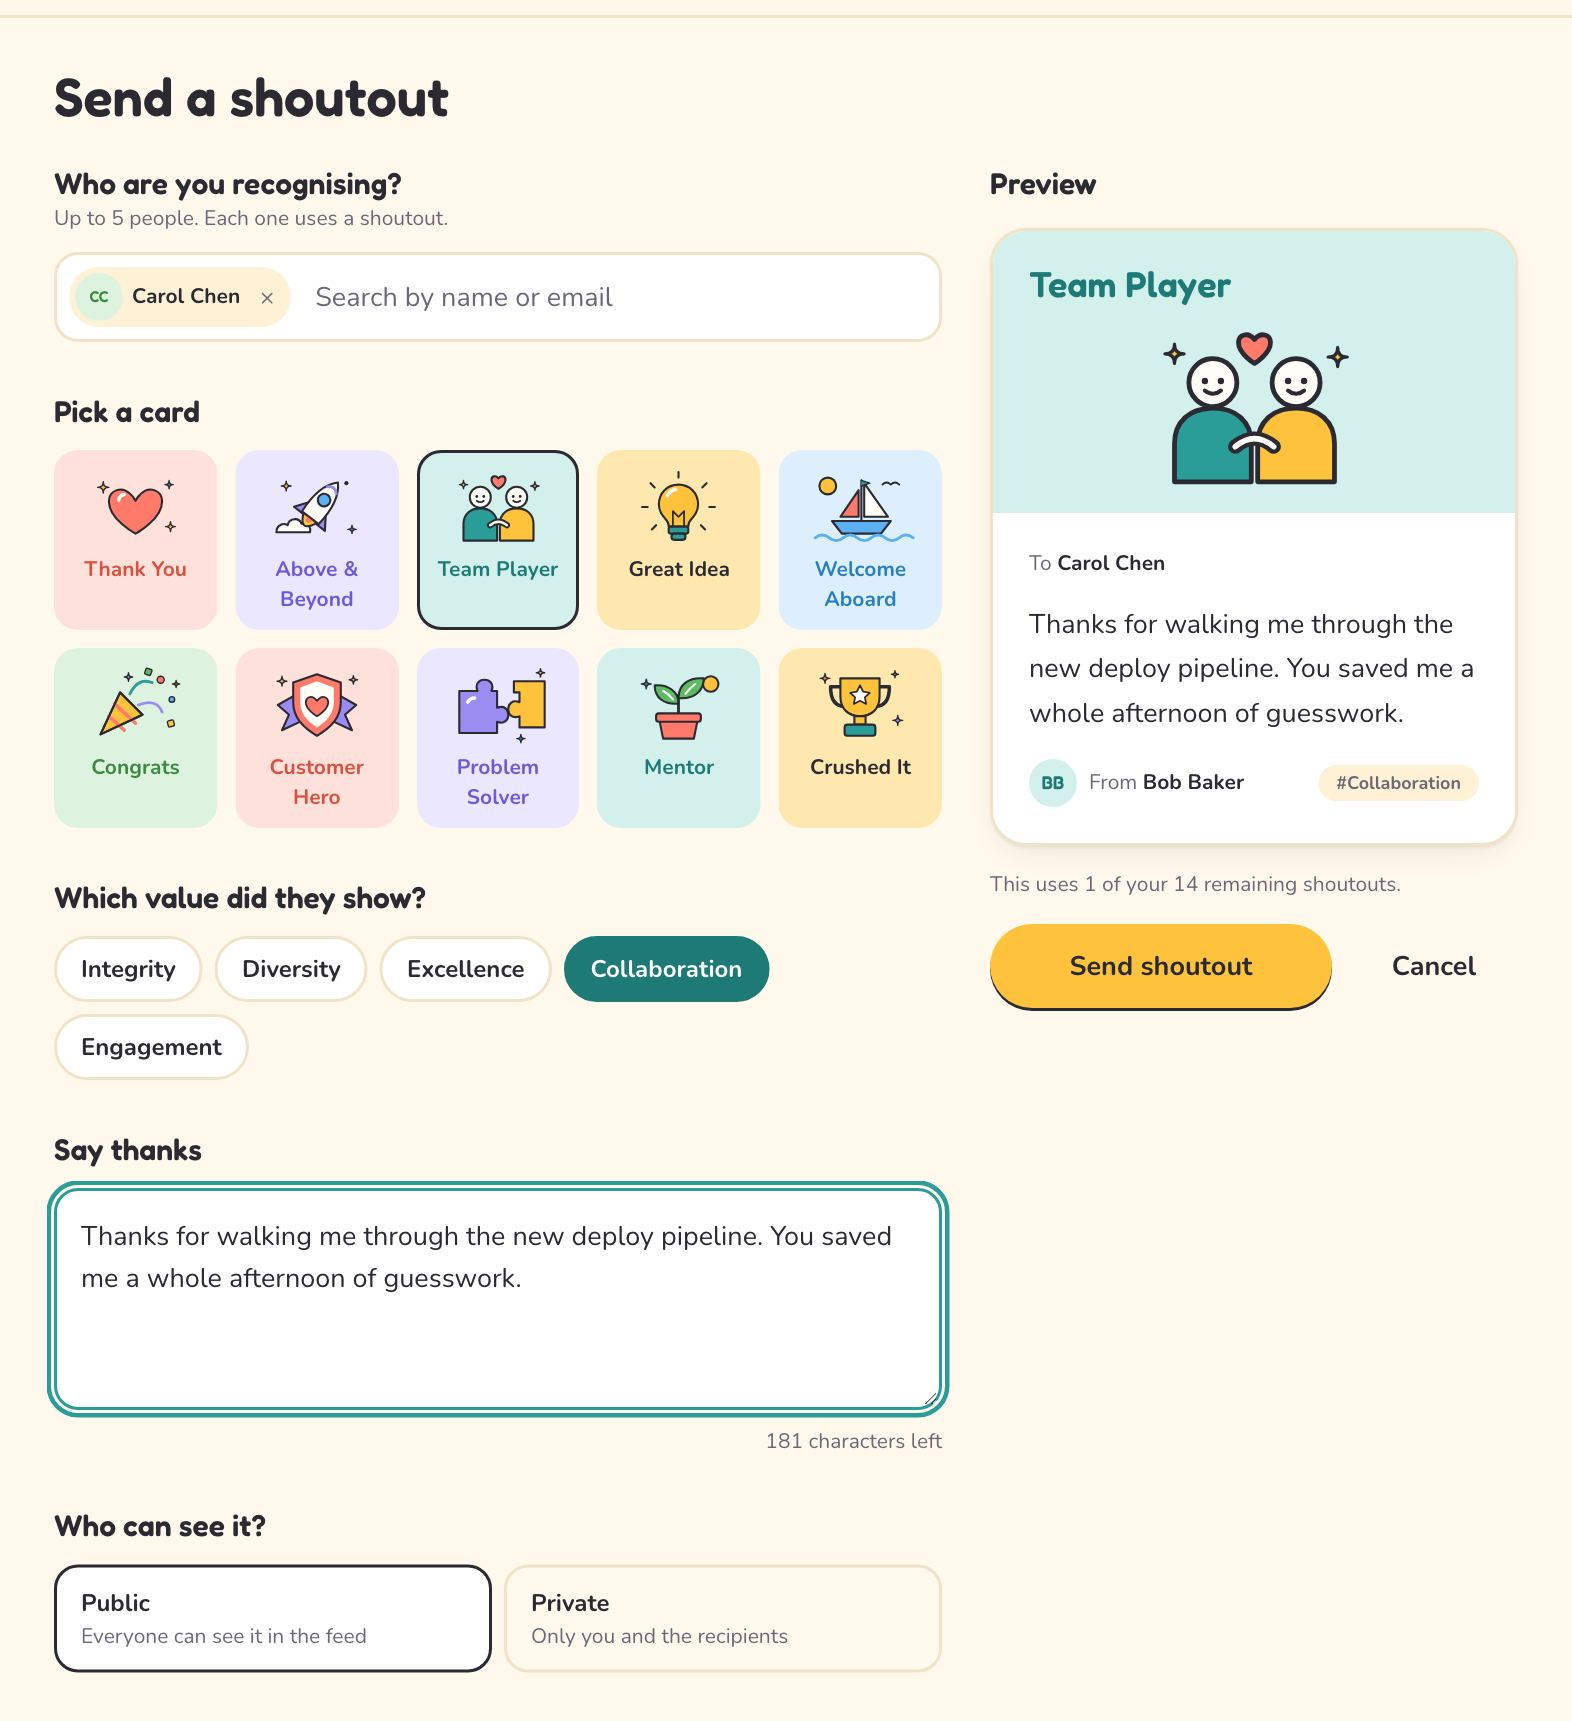
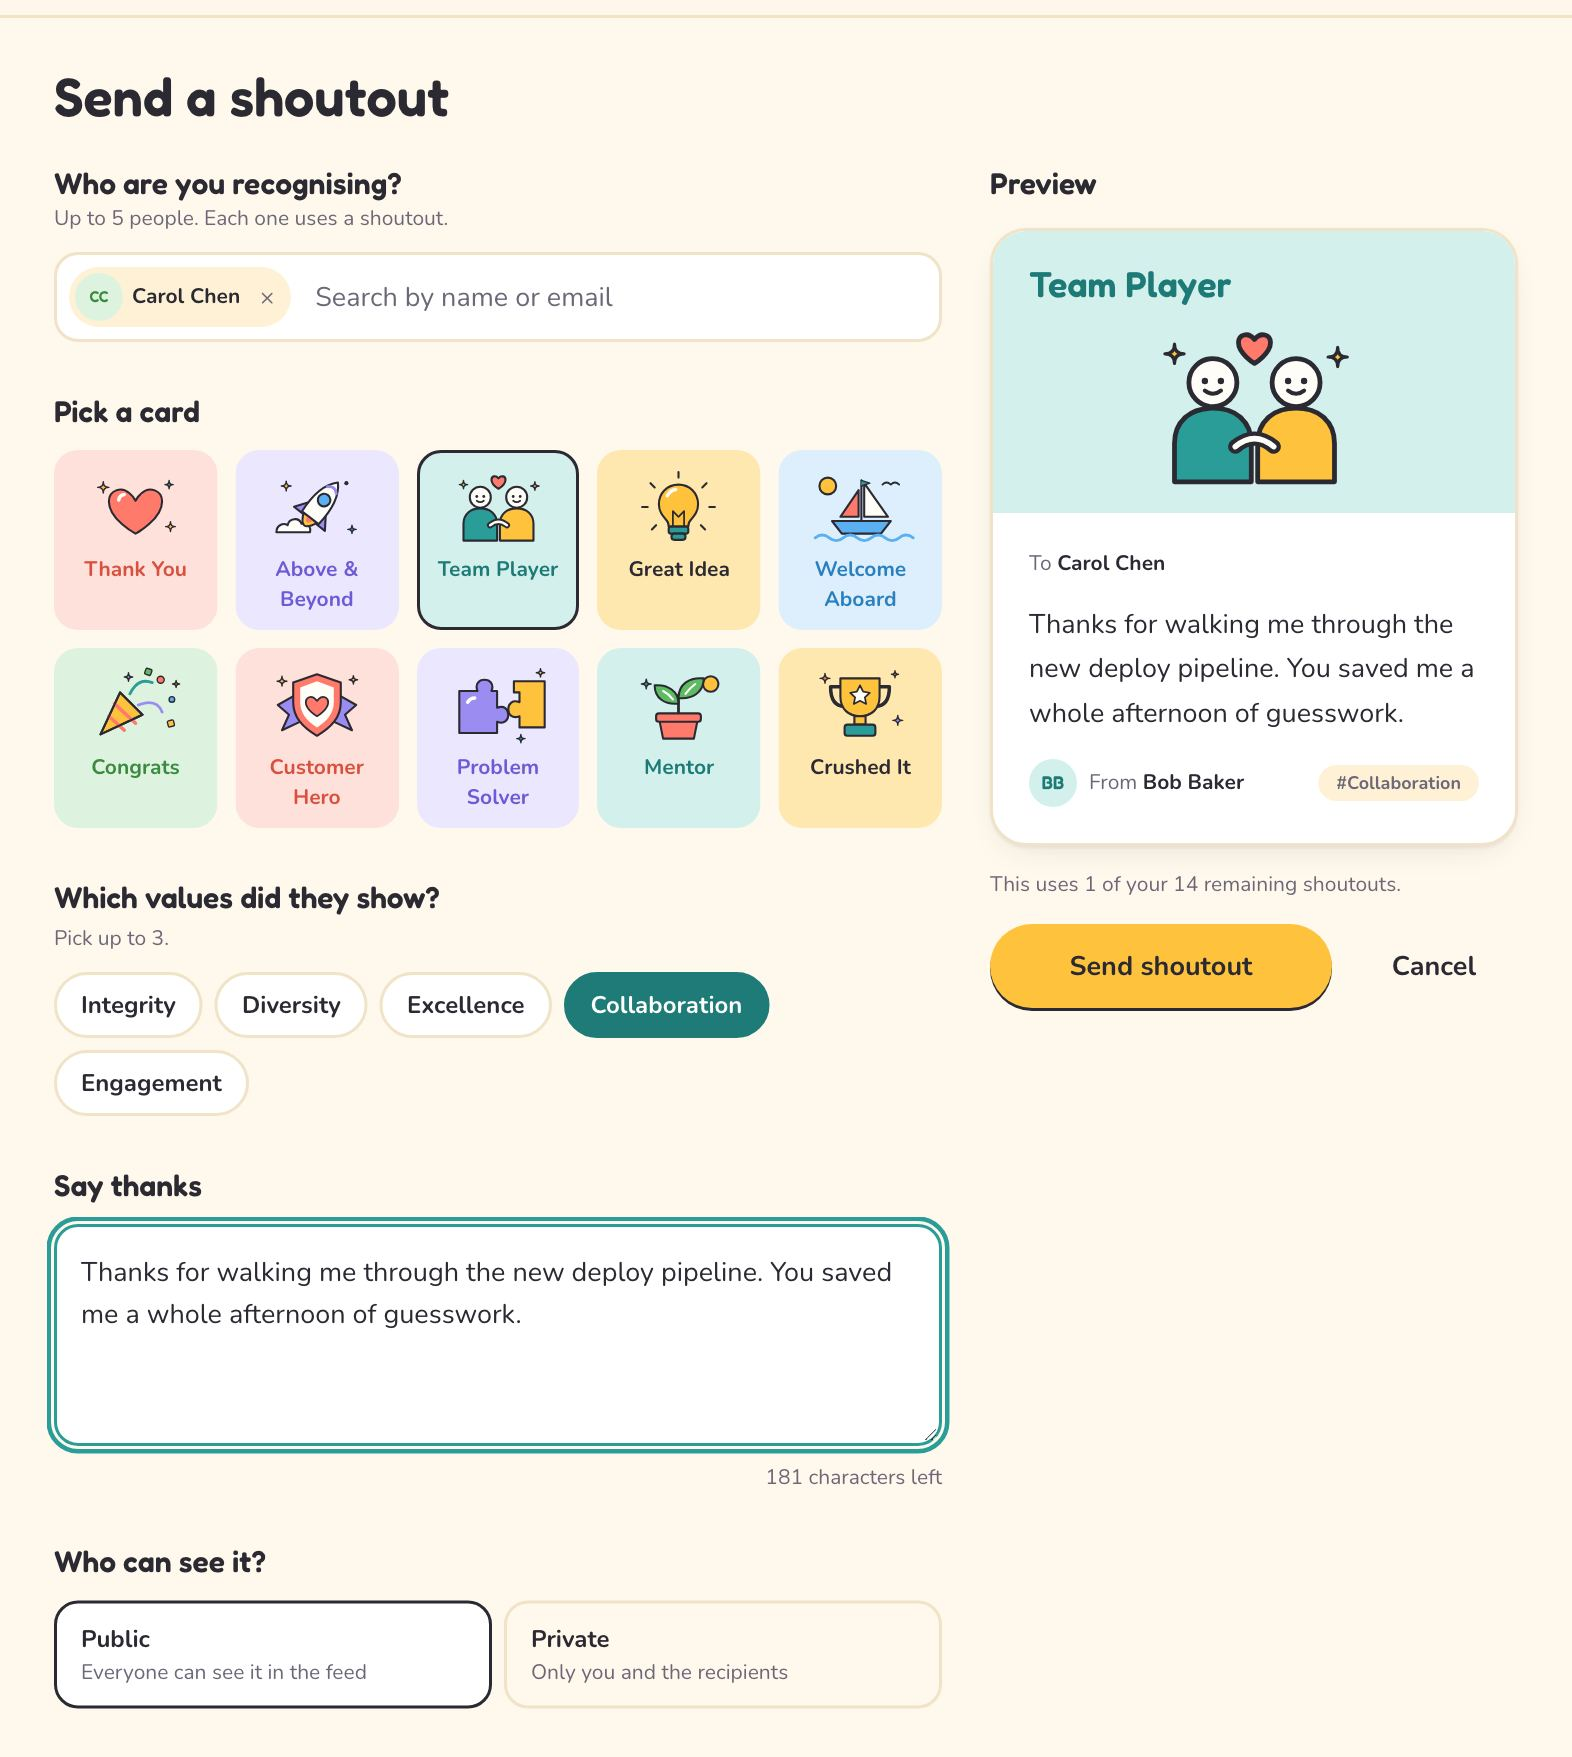
docs(guide): title above the sidebar, screenshots with several values
On phones the guide now reads title, contents, sections. Screenshots are
recaptured for the multi-value send form; the report capture uses the first
shoutout that can be reported.

diff --git a/src/app/guide/page.tsx b/src/app/guide/page.tsx
@@ -95,34 +95,36 @@ export default async function GuidePage() {
   return (
     <>
       <SiteHeader user={session?.user} />
-      <div className="mx-auto grid w-full max-w-6xl flex-1 items-start gap-8 px-4 py-8 sm:px-6 lg:grid-cols-[15rem_minmax(0,1fr)] lg:gap-10">
-        <GuideToc
-          groups={groups.map((group) => ({
-            title: group.title,
-            items: group.items.map(({ id, title }) => ({ id, title })),
-          }))}
-        />
-        <main className="min-w-0 space-y-6">
-          <div>
-            <h1 className="font-display text-4xl font-semibold">{GUIDE_TITLE}</h1>
-            <p className="mt-3 max-w-2xl text-lg text-muted">{GUIDE_INTRO}</p>
-            <p className="mt-2 text-sm text-muted">
-              Wondering why it works the way it does?{" "}
-              <Link href="/about" className="font-bold text-teal-strong hover:underline">
-                Read about ShoutOut
-              </Link>
-              .
-            </p>
-          </div>
-          {groups.map((group) => (
-            <div key={group.title} className="space-y-6">
-              <h2 className="pt-4 font-display text-3xl font-semibold">{group.title}</h2>
-              {group.items.map((section) => (
-                <Section key={section.id} section={section} />
-              ))}
-            </div>
-          ))}
-        </main>
+      <div className="mx-auto w-full max-w-6xl flex-1 px-4 py-8 sm:px-6">
+        <div className="mb-8">
+          <h1 className="font-display text-4xl font-semibold">{GUIDE_TITLE}</h1>
+          <p className="mt-3 max-w-2xl text-lg text-muted">{GUIDE_INTRO}</p>
+          <p className="mt-2 text-sm text-muted">
+            Wondering why it works the way it does?{" "}
+            <Link href="/about" className="font-bold text-teal-strong hover:underline">
+              Read about ShoutOut
+            </Link>
+            .
+          </p>
+        </div>
+        <div className="grid items-start gap-8 lg:grid-cols-[15rem_minmax(0,1fr)] lg:gap-10">
+          <GuideToc
+            groups={groups.map((group) => ({
+              title: group.title,
+              items: group.items.map(({ id, title }) => ({ id, title })),
+            }))}
+          />
+          <main className="min-w-0 space-y-12">
+            {groups.map((group) => (
+              <div key={group.title} className="space-y-6">
+                <h2 className="font-display text-3xl font-semibold">{group.title}</h2>
+                {group.items.map((section) => (
+                  <Section key={section.id} section={section} />
+                ))}
+              </div>
+            ))}
+          </main>
+        </div>
       </div>
     </>
   );

diff --git a/e2e/guide/capture.spec.ts b/e2e/guide/capture.spec.ts
@@ -157,7 +157,8 @@ test("everyday screens", async ({ page }) => {
   await expect(page.getByRole("status")).toHaveText(/deleted/i);
 
   // Report form, without sending a report.
-  await page.getByRole("article").first().getByRole("link", { name: "Report" }).click();
+  // The first shoutout someone else sent (your own can't be reported).
+  await page.getByRole("link", { name: "Report" }).first().click();
   await expect(page.getByRole("heading", { name: "Report shoutout" })).toBeVisible();
   await shot(page, "report.jpg", page.locator("main"));
 
